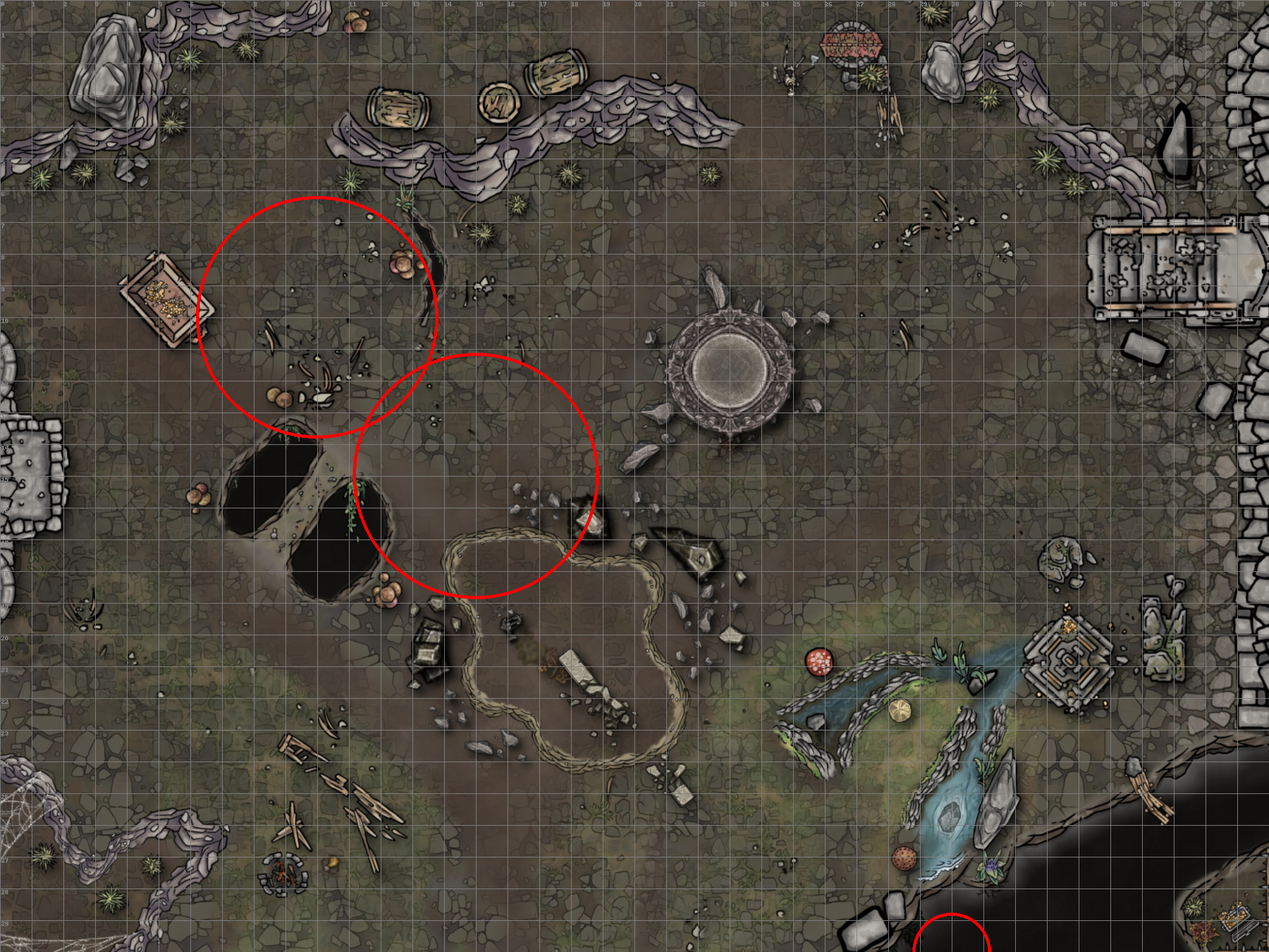
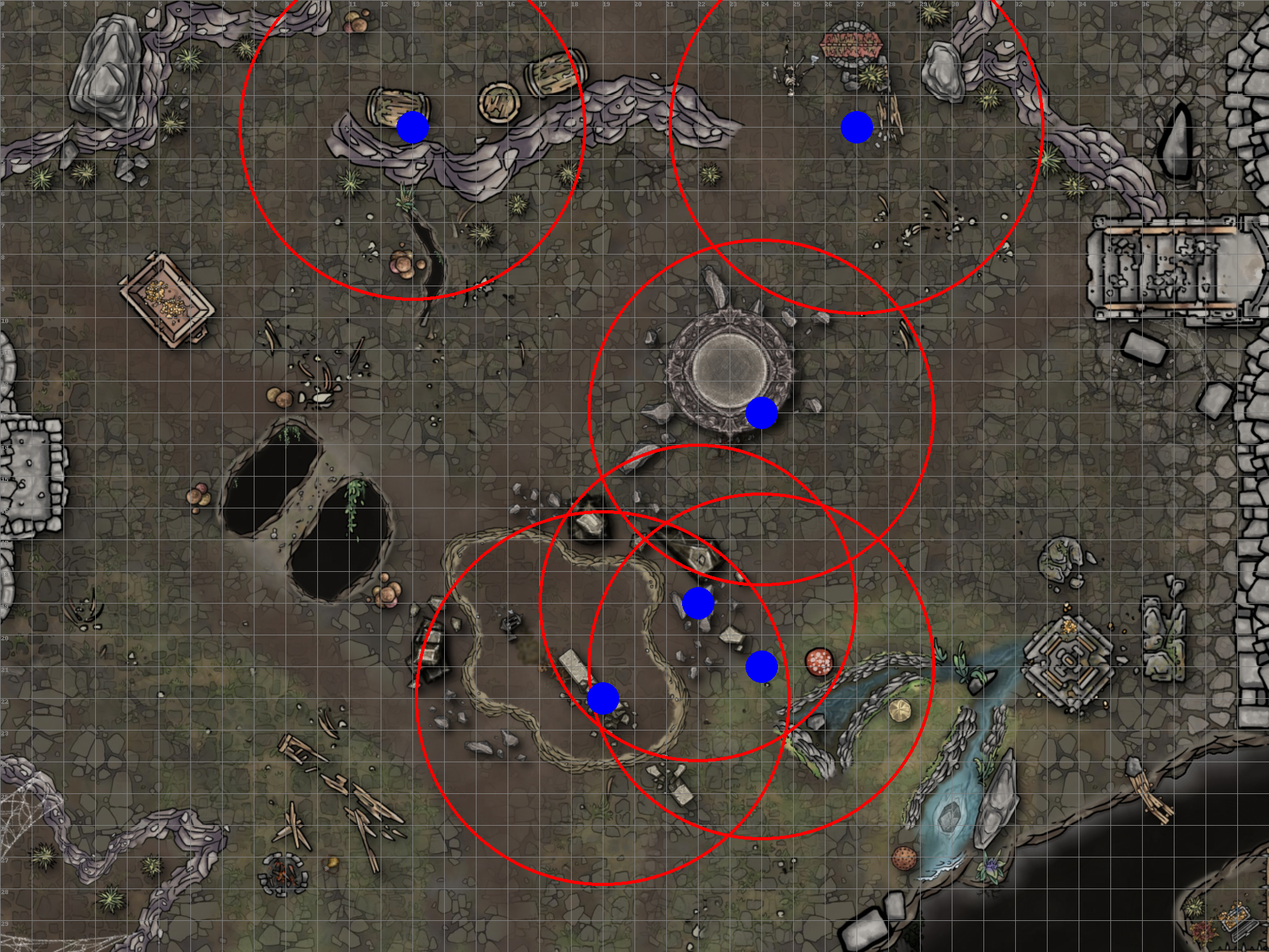
Ver 2

diff --git a/find_anomal.py b/find_anomal.py
@@ -1,85 +1,57 @@
-import math
+def get_data_anomauls():
+    res = []
+    json_response = [{'coords': [9, 9], 'id': 1,
+                      'swans': [{'id': '5b6eb38b', 'rate': 0.1626}, {'id': 'c00b92ba', 'rate': 0.249},
+                                {'id': '931ede7b', 'rate': 1.4634}, {'id': '661c2e66', 'rate': 0.1859},
+                                {'id': 'c2958c11', 'rate': 0.2006}, {'id': '08d55d4f', 'rate': 0.2602}]},
+                     {'coords': [33, 9], 'id': 2,
+                      'swans': [{'id': '5b6eb38b', 'rate': 0.2667}, {'id': 'c00b92ba', 'rate': 0.6186},
+                                {'id': '931ede7b', 'rate': 0.1412}, {'id': '661c2e66', 'rate': 0.2262},
+                                {'id': 'c2958c11', 'rate': 1.1475}, {'id': '08d55d4f', 'rate': 0.1918}]},
+                     {'coords': [9, 23], 'id': 3,
+                      'swans': [{'id': '5b6eb38b', 'rate': 0.262}, {'id': 'c00b92ba', 'rate': 0.1846},
+                                {'id': '931ede7b', 'rate': 0.1592}, {'id': '661c2e66', 'rate': 0.2703},
+                                {'id': 'c2958c11', 'rate': 0.1022}, {'id': '08d55d4f', 'rate': 0.6931}]},
+                     {'coords': [32, 22], 'id': 4,
+                      'swans': [{'id': '5b6eb38b', 'rate': 0.9231}, {'id': 'c00b92ba', 'rate': 0.4138},
+                                {'id': '661c2e66', 'rate': 0.4587}, {'id': 'c2958c11', 'rate': 0.2006},
+                                {'id': '08d55d4f', 'rate': 0.4142}]}]
 
-json_response = [{'coords': [9, 9], 'id': 1,
-                  'swans': [{'id': '5b6eb38b', 'rate': 0.1626}, {'id': 'c00b92ba', 'rate': 0.249},
-                            {'id': '931ede7b', 'rate': 1.4634}, {'id': '661c2e66', 'rate': 0.1859},
-                            {'id': 'c2958c11', 'rate': 0.2006}, {'id': '08d55d4f', 'rate': 0.2602}]},
-                 {'coords': [33, 9], 'id': 2,
-                  'swans': [{'id': '5b6eb38b', 'rate': 0.2667}, {'id': 'c00b92ba', 'rate': 0.6186},
-                            {'id': '931ede7b', 'rate': 0.1412}, {'id': '661c2e66', 'rate': 0.2262},
-                            {'id': 'c2958c11', 'rate': 1.1475}, {'id': '08d55d4f', 'rate': 0.1918}]},
-                 {'coords': [9, 23], 'id': 3,
-                  'swans': [{'id': '5b6eb38b', 'rate': 0.262}, {'id': 'c00b92ba', 'rate': 0.1846},
-                            {'id': '931ede7b', 'rate': 0.1592}, {'id': '661c2e66', 'rate': 0.2703},
-                            {'id': 'c2958c11', 'rate': 0.1022}, {'id': '08d55d4f', 'rate': 0.6931}]},
-                 {'coords': [32, 22], 'id': 4,
-                  'swans': [{'id': '5b6eb38b', 'rate': 0.9231}, {'id': 'c00b92ba', 'rate': 0.4138},
-                            {'id': '661c2e66', 'rate': 0.4587}, {'id': 'c2958c11', 'rate': 0.2006},
-                            {'id': '08d55d4f', 'rate': 0.4142}]}]
+    mp = {}
+    for dat in json_response:
+        for anom in dat['swans']:
+            try:
+                mp[anom['id']].append({'rate': anom['rate'], 'coords': dat['coords']})
+            except KeyError:
+                mp[anom['id']] = [{'rate': anom['rate'], 'coords': dat['coords']}]
 
-mp = {}
-
-
-for dat in json_response:
-    for anom in dat['swans']:
-        try:
-            mp[anom['id']].append({'rate': anom['rate'], 'coords': dat['coords']})
-        except KeyError:
-            mp[anom['id']] = [{'rate': anom['rate'], 'coords': dat['coords']}]
-print(mp)
-
-for id_anom in mp:
-    best_x = 1
-    best_y = 1
-    sum_error = 100
-    for x in range(1, 41):
-        for y in range(1, 31):
-            loc_sum_error = 0
-            #print(mp[id_anom])
-            for i in range(0, len(mp[id_anom]) - 1):
-                a = mp[id_anom][i]
-                b = mp[id_anom][i + 1]
-                ideal_k = a['rate'] / b['rate']
-                pair_cor1 = a['coords']
-                pair_cor2 = b['coords']
-                sq_r1 = pow(pair_cor1[0] - x, 2) + pow(pair_cor1[1] - y, 2)
-                sq_r2 = pow(pair_cor2[0] - x, 2) + pow(pair_cor2[1] - y, 2)
-                if sq_r1 != 0:
-                    real_k = sq_r2 / sq_r1
-                    loc_sum_error += abs(real_k - ideal_k)
-            if loc_sum_error < sum_error:
-                sum_error = loc_sum_error
-                best_x = x
-                best_y = y
-    sum_int0 = 0
-    for ias in mp[id_anom]:
-        pair_cor = ias['coords']
-        sq_r = pow(pair_cor[0] - best_x, 2) + pow(pair_cor[1] - best_y, 2)
-        sum_int0 += ias['rate'] * sq_r
-    int0 = sum_int0 / len(mp[id_anom])
-    print(best_x, best_y, int0)
-    print()
-
-# def data_circle(a, b):
-#     k = math.sqrt(b['rate'] / a['rate'])
-#     pair_cor1 = a['coords']
-#     pair_cor2 = b['coords']
-#     a = math.sqrt(pow(pair_cor1[0] - pair_cor1[1], 2) + pow(pair_cor2[0] - pair_cor2[1], 2))
-#     r = k * a / (k * k - 1)
-#     x0 = r
-#     y0 = x0 * pair_cor1[1] / pair_cor1[0]
-#     return r, x0, y0
-#
-# for id_anom in mp:
-#     r1, x1, y1 = data_circle(mp[id_anom][0], mp[id_anom][1])
-#     r2, x2, y2 = data_circle(mp[id_anom][1], mp[id_anom][2])
-#     d = x1 * x1 + y1 * y1 - x2 * x2 - r1 * r1 + r2 * r2
-#     A = 2 * (x2 - x1)
-#     B = 2 * (y2 - y1)
-
-
-
-
-
-
-
+    for id_anom in mp:
+        best_x = 1
+        best_y = 1
+        sum_error = 100
+        for x in range(1, 41):
+            for y in range(1, 31):
+                loc_sum_error = 0
+                for i in range(0, len(mp[id_anom]) - 1):
+                    a = mp[id_anom][i]
+                    b = mp[id_anom][i + 1]
+                    ideal_k = a['rate'] / b['rate']
+                    pair_cor1 = a['coords']
+                    pair_cor2 = b['coords']
+                    sq_r1 = pow(pair_cor1[0] - x, 2) + pow(pair_cor1[1] - y, 2)
+                    sq_r2 = pow(pair_cor2[0] - x, 2) + pow(pair_cor2[1] - y, 2)
+                    if sq_r1 != 0:
+                        real_k = sq_r2 / sq_r1
+                        loc_sum_error += abs(real_k - ideal_k)
+                if loc_sum_error < sum_error:
+                    sum_error = loc_sum_error
+                    best_x = x
+                    best_y = y
+        sum_int0 = 0
+        for ias in mp[id_anom]:
+            pair_cor = ias['coords']
+            sq_r = pow(pair_cor[0] - best_x, 2) + pow(pair_cor[1] - best_y, 2)
+            sum_int0 += ias['rate'] * sq_r
+        int0 = sum_int0 / len(mp[id_anom])
+        res.append((best_x, best_y, int0))
+    return res

diff --git a/map_parser.py b/map_parser.py
@@ -1,5 +1,6 @@
 from PIL import Image, ImageDraw
 from math import sqrt
+from find_anomal import get_data_anomauls
 
 
 width = 40
@@ -24,12 +25,7 @@ def fill_graph():
 
 
 def draw_anomalous(arr):
-    """
-    :param arr: List of tuples like: (x, y, val), where
-    val - maximum value of the anomalous in (x, y)
-    :return:
-    """
-    im = Image.open("map.png")
+    im = Image.open("makets_predprof/map.png")
     drawer = ImageDraw.Draw(im)
     for anom in arr:
         r = sqrt(2500 * anom[2] / 2)
@@ -45,20 +41,13 @@ def draw_anomalous(arr):
             for j in range(height):
                 if x1 <= i * 50 <= x2 and y1 <= j * 50 <= y2:
                     used_cells.add((i, j))
-
+    for anom in arr:
+        drawer.ellipse((
+            (anom[0] * 50 - 25, anom[1] * 50 - 25),
+            (anom[0] * 50 + 25, anom[1] * 50 + 25)), fill=(0, 0, 250))
     fill_graph()
-    import pprint
-    pprint.pp(matrix)
-    im.save("map2.png")
+    im.save("makets_predprof/map2.png")
 
 
-s = (0, 0)
-f = (10, 30)
-used = {(i, j): 0 for i in range(width) for j in range(height)}
-dist = {(i, j): 10 ** 9 for i in range(width) for j in range(height)}
-pred = {(i, j): (-1, -1) for i in range(width) for j in range(height)}
-dist[s] = 0
-
-
-
-# draw_anomalous([(10, 10, 29), (15, 15, 30), (30, 30, 3)])
+if __name__ == "__main__":
+    draw_anomalous(get_data_anomauls())
